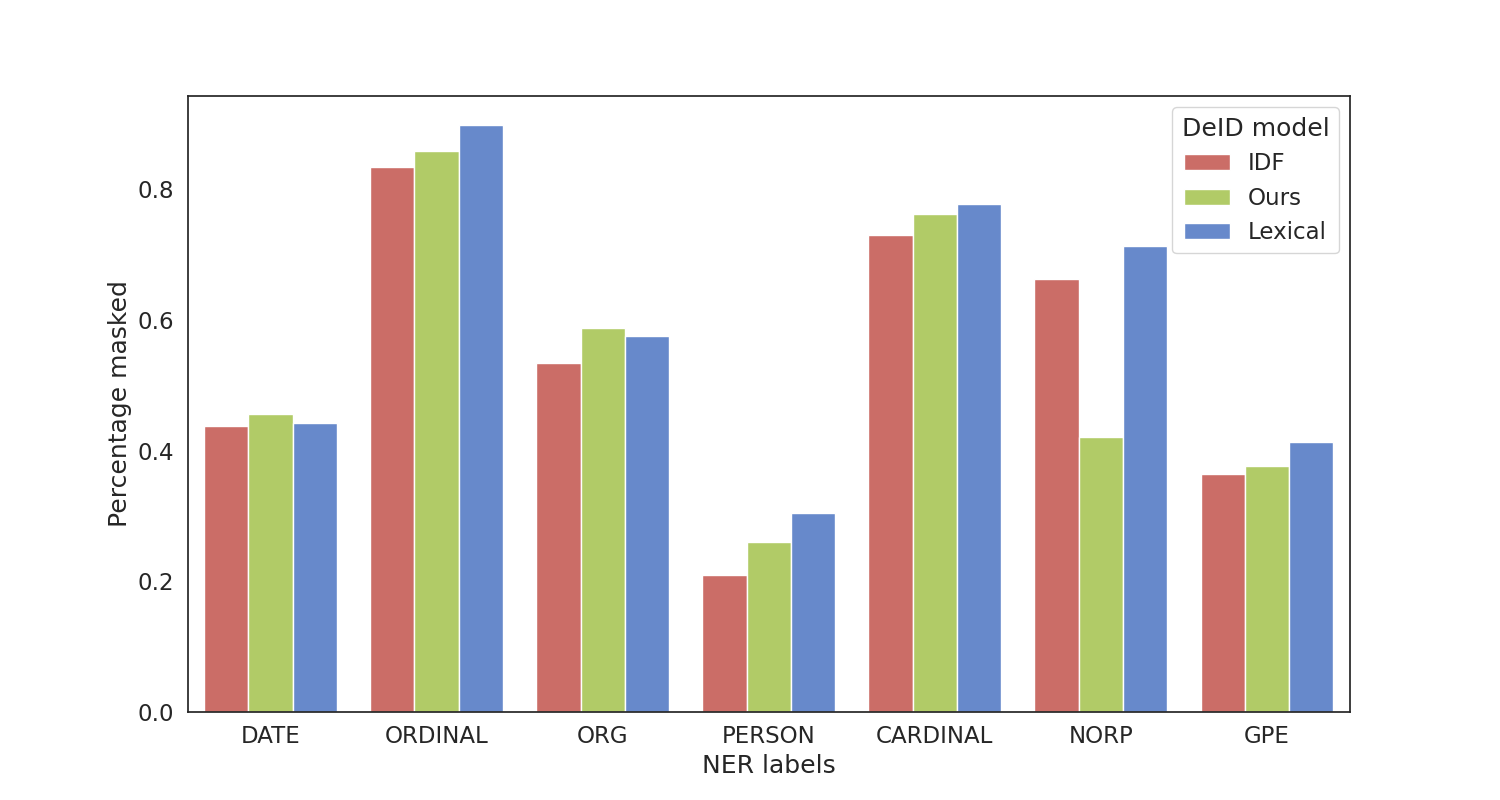
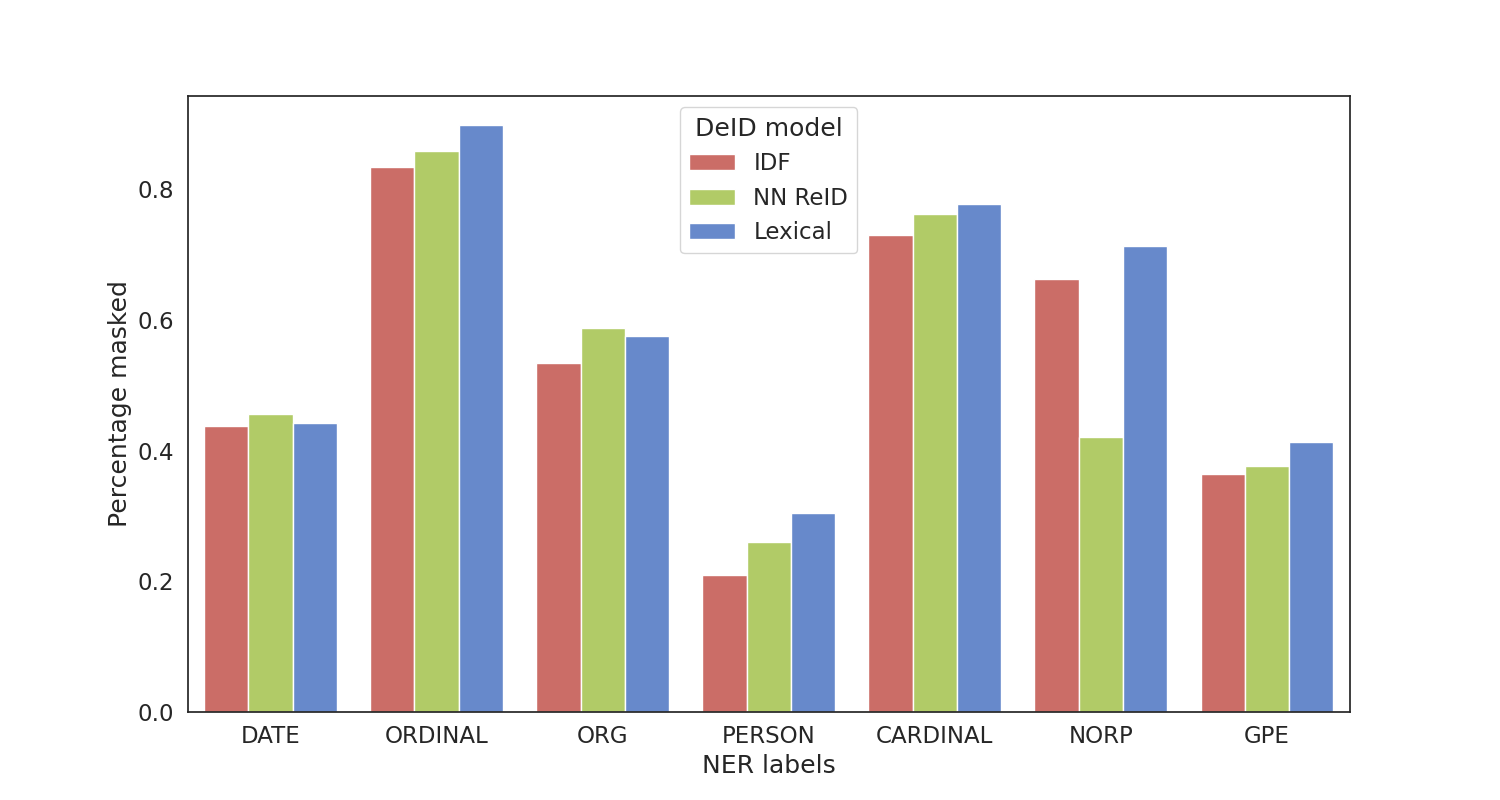
.

Changed region(s): [[0.7667, 0.125, 0.8893, 0.3125], [0.46, 0.125, 0.552, 0.3125]]

diff --git a/main.py b/main.py
@@ -13,19 +13,28 @@ import re
 import spacy
 from spacy.tokenizer import Tokenizer
 
+from transformers import pipeline, AutoTokenizer, AutoModelForTokenClassification
+import torch
 
+# spacy hacks
 nlp = spacy.load('en_core_web_sm')
 #text = "This is it's"
 #print("Before:", [tok for tok in nlp(text)])
-
 nlp.tokenizer = Tokenizer(nlp.vocab, token_match=re.compile(r'\S+').match)
 
+# ner model
+tokenizer = AutoTokenizer.from_pretrained("dslim/bert-base-NER-uncased")
+model = AutoModelForTokenClassification.from_pretrained("dslim/bert-base-NER-uncased")
+bert_ner_pipeline = pipeline(
+  "ner", model=model, tokenizer=tokenizer, device=(0 if torch.cuda.is_available() else -1)
+)
 
+# seaborn settings
 sns.set(rc = {'figure.figsize':(15,8)})
 sns.set_theme(style="white", font_scale=1.5)
 
+# data setup
 df = pd.read_parquet("wikibio_redacted_3.parquet.gzip")
-
 
 pt = "pmlm_tapas"
 rt = "roberta_tapas"
@@ -148,12 +157,16 @@ if not pospath.exists():
 
         doc = nlp(text)
         assert len(doc) == len(text.split())
+        entities = bert_ner_pipeline(text)
+
+        #for i in range(len(doc)):
+        #import pdb; pdb.set_trace()
         for method in deid_methods:
             words = rows[rows["deid_method"] == method]["perturbed_text"].values[0].split()
             is_masks = [w == "<mask>" for w in words]
             mask_sums[method] += np.sum(is_masks)
             assert len(doc) == len(is_masks)
-            for token, is_mask in zip(doc, is_masks):
+            for i, (token, is_mask) in enumerate(zip(doc, is_masks)):
                 if not is_mask:
                     pos = token.pos_
                     if pos not in exclude_pos:
@@ -180,20 +193,22 @@ ner_global = sum(nerdict.values(), Counter())
 def plot_words(k=10):
     pos_list = [p for p,c in pos_global.most_common(7)]
     ner_list = [n for n,c in ner_global.most_common(7)]
-    method_list = [neural, idf, "lexical"]
+    pos_method_list = [neural, idf]
+    ner_method_list = [neural, idf, "lexical"]
+
 
     # count, method, counter
     pos_df = pd.DataFrame([
         (method, x, c / posdict["document"][x])
         for method, counter in posdict.items()
         for x, c in counter.items()
-        if x in pos_list and method in method_list
+        if x in pos_list and method in pos_method_list
     ], columns=["method", "pos", "percent"])
     ner_df = pd.DataFrame([
         (method, x, c / nerdict["document"][x])
         for method, counter in nerdict.items()
         for x, c in counter.items()
-        if x in ner_list and method in method_list
+        if x in ner_list and method in ner_method_list
     ], columns=["method", "type", "percent"])
 
     ax = sns.barplot(
@@ -208,8 +223,8 @@ def plot_words(k=10):
     ax.legend(
         handles=handles,
         title="DeID model",
-        #labels = ["Ours","IDF", "Lexical"], # ideal ordering
-        labels = ["IDF", "Ours","Lexical"], # current ordering
+        #labels = ["NN ReID","IDF"], # ideal ordering
+        labels = ["IDF", "NN ReID"], # current ordering
     )
     plt.savefig(f"pos.png")
 
@@ -227,8 +242,8 @@ def plot_words(k=10):
     ax.legend(
         handles=handles,
         title="DeID model",
-        #labels = ["Ours","IDF", "Lexical"], # ideal ordering
-        labels = ["IDF", "Ours","Lexical"], # current ordering
+        #labels = ["NN ReID","IDF", "Lexical"], # ideal ordering
+        labels = ["IDF", "NN ReID","Lexical"], # current ordering
     )
     plt.savefig(f"ner.png")
     plt.close("all")
